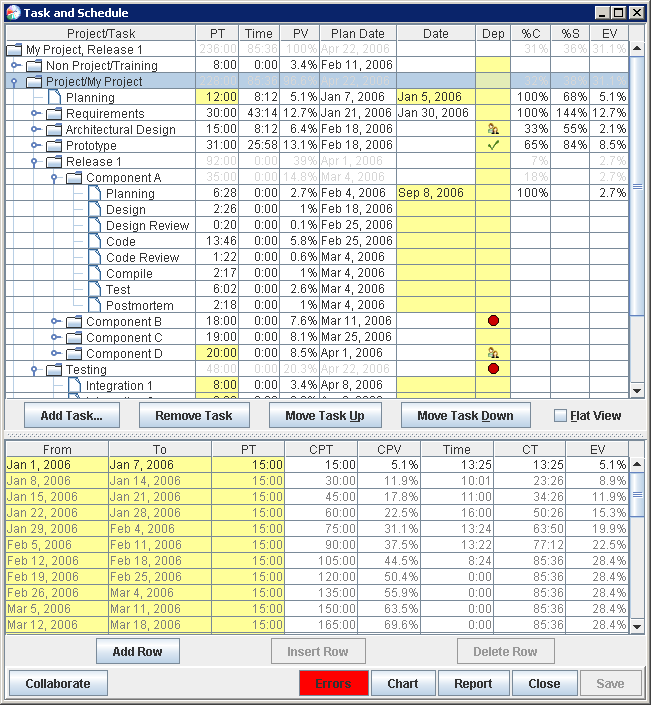
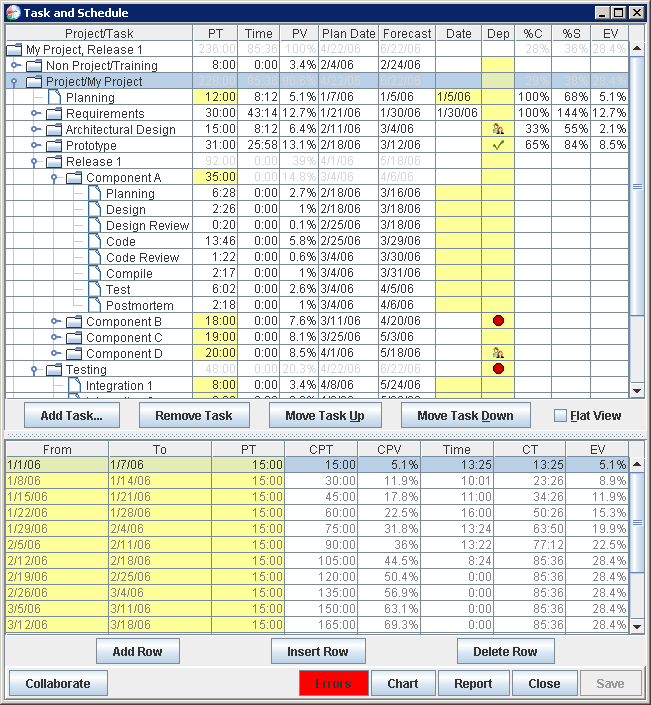
Updates for the ' forecast date' column
git-svn-id: https://svn.code.sf.net/p/processdash/code/trunk@2937 560cad82-bde2-470f-af40-e4e1f8d6548a

diff --git a/processdash/Templates/help/Topics/Planning/UsingTaskSchedule.html b/processdash/Templates/help/Topics/Planning/UsingTaskSchedule.html
@@ -92,15 +92,31 @@ task.</p>
 <p><b>Time</b> This is the actual amount of time spent on a given task.</p>
 
 <p><b>Planned Value (PV):</b> This is the amount of earned value that will be 
-earned by the given task based on the planned numbers.</p>
+earned by the given task based on the planned numbers.  It is calculated as
+a percentage of the total planned work.</p>
 
-<p><b>Plan Date:</b> This is the date that the Task &amp; Schedule tool thinks 
-you will finish the given task.  This number uses the data from the lower 
-half of the Task &amp; Schedule tool to determine an ending date.</p>
+<p><b>Plan Date:</b> This is the date the task is planned to complete. The
+Task &amp; Schedule tool computes this by assuming that the planned time
+for each task, the planned task order, and the planned hours per time
+period will be 100% accurate.  Then, it determines when your schedule will
+have enough planned hours to complete the first task, the second task, and
+so on.</p>
 
-<p><b>Date:</b> This is the actual completion date.  It will be filled in 
-automatically when you mark the task complete via the <a 
-href="../Execution/CompletionButton.html">Completion Button</a>.</p>
+<p><b>Forecast:</b> This is the date that the Task &amp; Schedule tool
+thinks you might actually finish the given task.  After you have completed
+at least one task in your plan and at least one time period in your
+schedule, the Task &amp; Schedule tool will compare your actual performance
+to your planned performance.  (For example, are tasks taking twice as long
+as expected?  Are you spending as much time per period as you thought you
+would?)  Then, it assumes that these plan-to-actual relationships will hold
+true for the rest of the tasks in your plan, and recomputes completion
+dates accordingly.</p>
+
+<p><b>Date:</b> This is the actual completion date.  It will be filled in
+automatically when you mark the task complete via the <a
+href="../Execution/CompletionButton.html">Completion
+Button</a>. Alternately, you can edit completion dates here (for example,
+if you need to back-date the completion of an item).</p>
 
 <p><b>Dep:</b> This column displays information about 
 <a href="TaskScheduleDependencies.html">task dependencies</a>.
